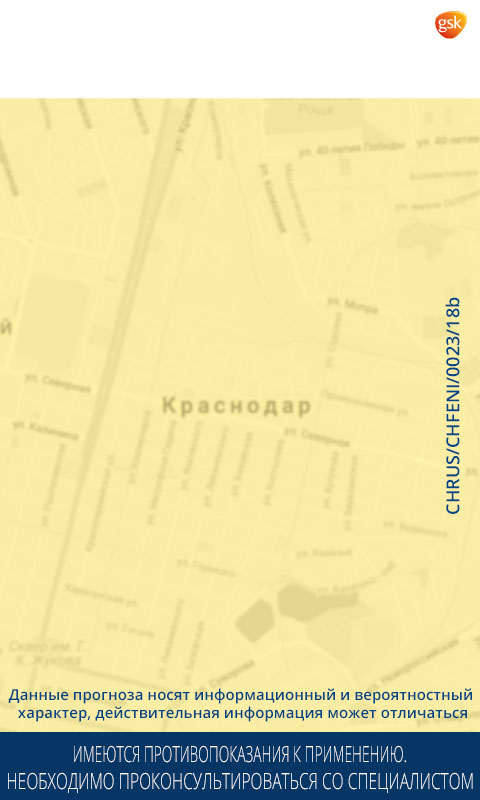
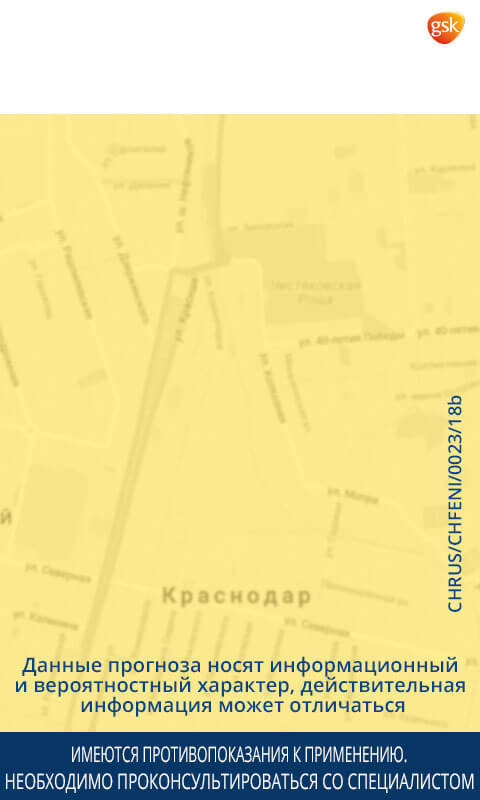
up

diff --git a/fenistil/240x400/static/css/dist.css b/fenistil/240x400/static/css/dist.css
@@ -31,26 +31,31 @@ body, html {
 
 .percent {
 	position: absolute;
-	top: 65px;
+	top: 140px;
 	left: 10px;
 	right: 10px;
+	transform: translateY(-50%);
 	color: #004486;
 	text-align: center;
-	font: normal 19px/22px "OpenSans", Arial, sans-serif;
+	font: normal 17px/1.1 "OpenSans", Arial, sans-serif;
+	letter-spacing: -0.2px;
 }
 
 .region {
 	position: absolute;
-	bottom: 65px;
-	left: 20px;
-	right: 20px;
+	top: 290px;
+	left: 50%;
+	box-sizing: border-box;
 	padding: 6px 10px 7px;
-	max-height: 34px;
+	height: 26px;
+	max-width: 200px;
+	transform: translateX(-50%);
 	text-align: center;
+	white-space: nowrap;
 	color: #fff;
 	background: #74b633;
 	border-radius: 20px;
-	font: normal 17px/17px "OpenSans", Arial, sans-serif;
+	font: normal 13px/1 "OpenSans", Arial, sans-serif;
 	overflow: hidden;
 }
 
@@ -59,10 +64,10 @@ body, html {
 	display: block;
 	position: absolute;
 	z-index: 0;
-	top: 10px;
-	left: 10px;
-	width: 103px;
-	height: 33px;
+	top: 8px;
+	left: 0;
+	width: 100%;
+	height: 42px;
 	background: url(../images/logo_fenistil.png) center no-repeat;
 	background-size: contain;
 }
@@ -71,10 +76,10 @@ body, html {
 	display: block;
 	position: absolute;
 	z-index: 0;
-	top: 8px;
-	right: 35px;
-	width: 82px;
-	height: 30px;
+	top: 65px;
+	left: 0;
+	width: 100%;
+	height: 50px;
 	background: url(../images/logo_prognoz.png) center no-repeat;
 	background-size: contain;
 }
@@ -84,10 +89,10 @@ body, html {
 	display: block;
 	position: absolute;
 	z-index: 0;
-	top: 50px;
+	top: 165px;
 	left: 0;
 	width: 100%;
-	height: 230px;
+	height: 45px;
 	background: url(../images/pack.png) center no-repeat;
 	background-size: contain;
 }
@@ -96,10 +101,10 @@ body, html {
 	display: block;
 	position: absolute;
 	z-index: 0;
-	top: 255px;
+	top: 252px;
 	left: 50%;
-	width: 70px;
-	height: 70px;
+	width: 53px;
+	height: 53px;
 	transform: translate(-50%,-50%);
 	background: #74b633 url(../images/komar.png) center no-repeat;
 	background-size: contain;
@@ -134,20 +139,29 @@ body, html {
 
 .region {
 	color: transparent;
-	transform: scaleX(0);
+	transform: translateX(-50%);
+	max-width: 0;
+	opacity: 0;
 	animation: region ease-in 0.75s 0.75s both;
 }
 @keyframes region {
 	0 {
 		color: transparent;
-		transform: scaleX(0);
+		transform: translateX(-50%);
+		max-width: 0;
+		opacity: 0;
+	}
+	10% {
+		opacity: 1;
 	}
 	80% {
 		color: transparent;
 	}
 	100% {
+		opacity: 1;
 		color: #fff;
-		transform: scaleX(1);
+		transform: translateX(-50%);
+		max-width: 200px;
 	}
 }
 
